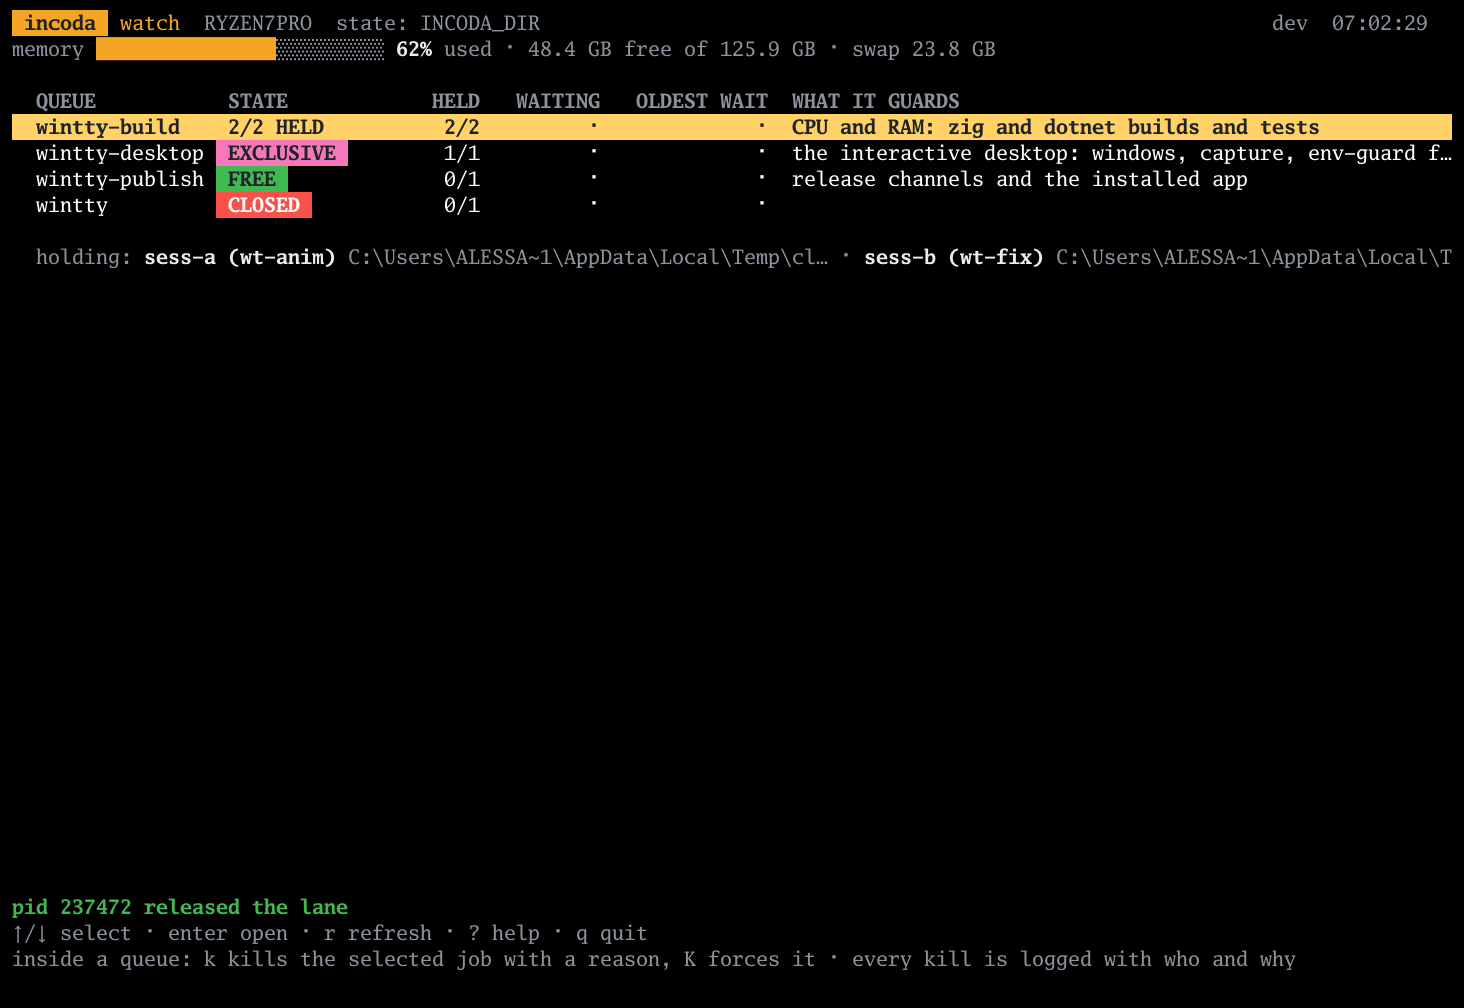
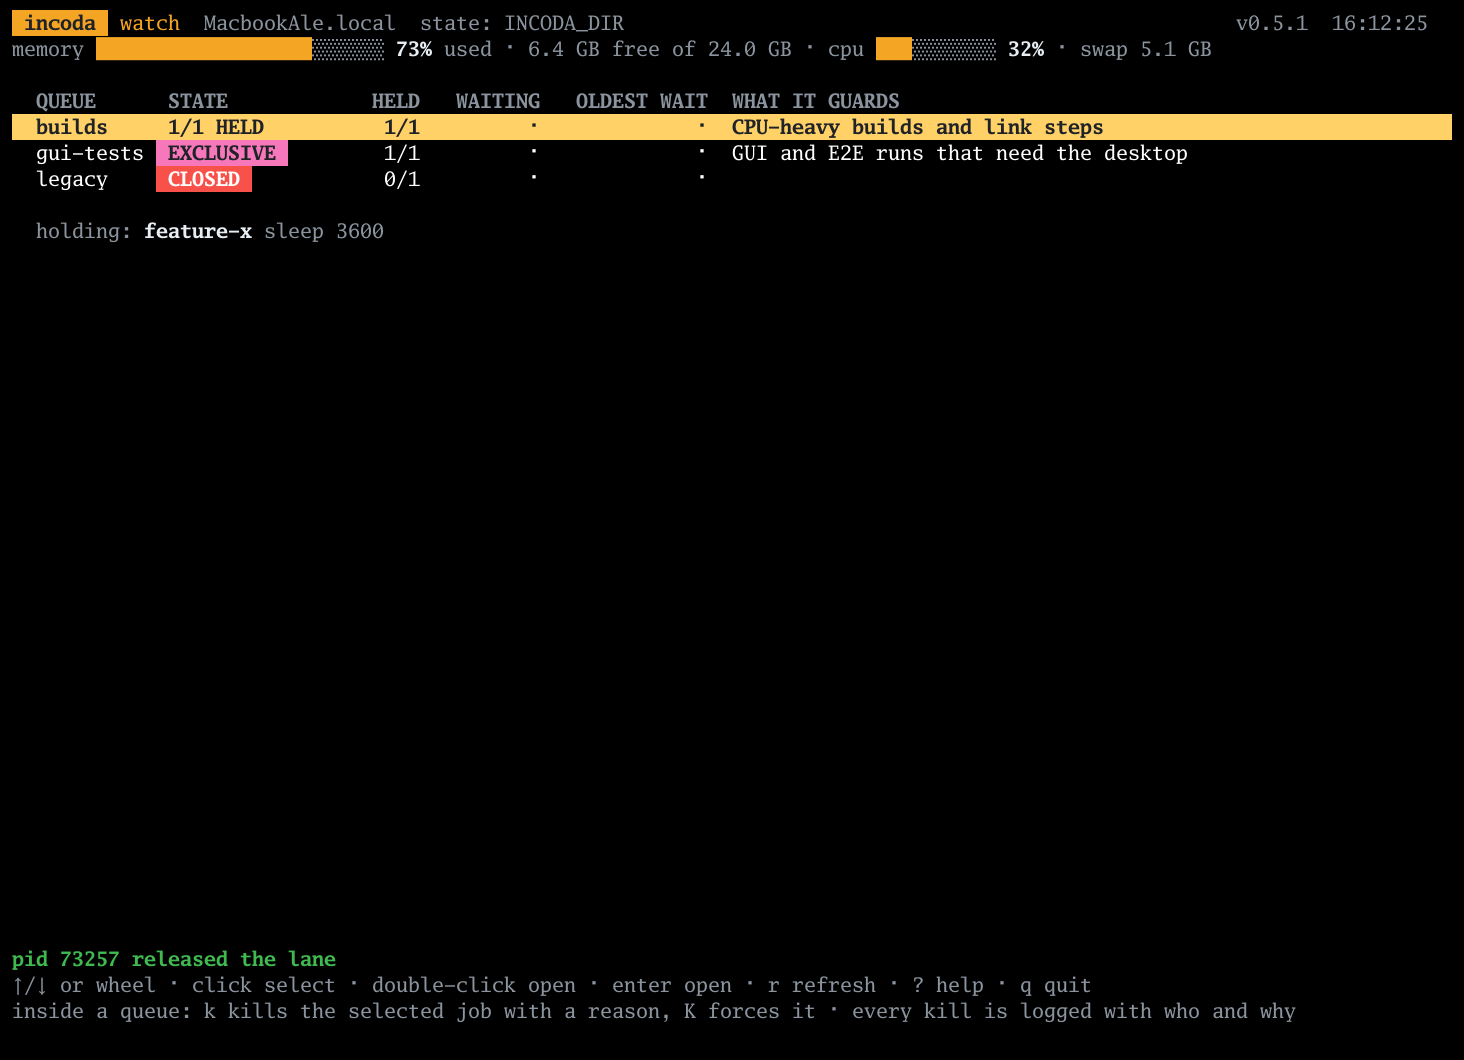
docs: add reproducible demo recording and refresh assets
Seed watch state with builds/gui-tests/legacy, drive ttyrig for PNGs,
re-record CLI GIF with owner/reason handoff story, and add just demo-*.

diff --git a/CONTRIBUTING.md b/CONTRIBUTING.md
@@ -33,8 +33,20 @@ removed.
 
 ## Demo assets
 
-- **CLI GIF:** [`docs/img/demo.tape`](docs/img/demo.tape) — re-record with
-  [vhs](https://github.com/charmbracelet/vhs).
-- **Watch screenshots:** [`docs/demo/incoda-watch.rig`](docs/demo/incoda-watch.rig)
-  — drive `incoda watch` with [ttyrig](https://github.com/deblasis/ttyrig) and
-  commit the PNGs under `docs/img/`.
+Requires `incoda` on `PATH`. Watch recording also needs
+[ttyrig](https://github.com/deblasis/ttyrig); CLI GIF needs
+[vhs](https://github.com/charmbracelet/vhs).
+
+```sh
+just demo-watch   # ttyrig -> docs/img/watch-*.png
+just demo-cli     # vhs -> docs/img/demo.gif
+```
+
+Scripts:
+
+- [`docs/demo/seed-watch-state.sh`](docs/demo/seed-watch-state.sh) — holder,
+  waiter, exclusive, and closed queues for the watch tour
+- [`docs/demo/incoda-watch.rig`](docs/demo/incoda-watch.rig) — ttyrig script
+- [`docs/img/demo.tape`](docs/img/demo.tape) — vhs script for the CLI GIF
+
+Scratch output goes to `docs/demo/.state/` and `docs/demo/shots/` (gitignored).

diff --git a/README.md b/README.md
@@ -129,9 +129,11 @@ Mouse: click to select, double-click to open, wheel to move.
 
 ![incoda watch kill prompt: cooperative kill with a required reason](docs/img/watch-kill-prompt.png)
 
-Re-record the watch screenshots with
-[`docs/demo/incoda-watch.rig`](docs/demo/incoda-watch.rig) and
-[ttyrig](https://github.com/deblasis/ttyrig).
+![incoda watch after kill: waiter gone, kill logged, lane released](docs/img/watch-after-kill.png)
+
+Re-record: `./docs/demo/record-watch.sh` (needs
+[ttyrig](https://github.com/deblasis/ttyrig)) or `./docs/demo/record-cli-demo.sh`
+for the CLI GIF.
 
 ## How it works
 
